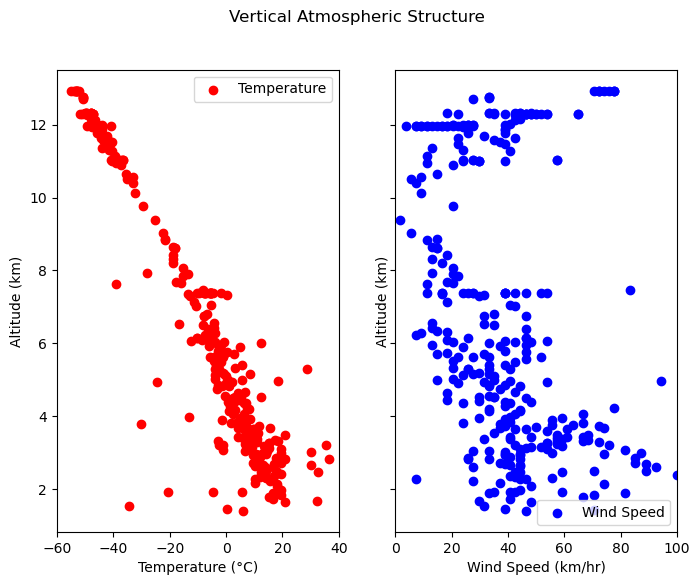
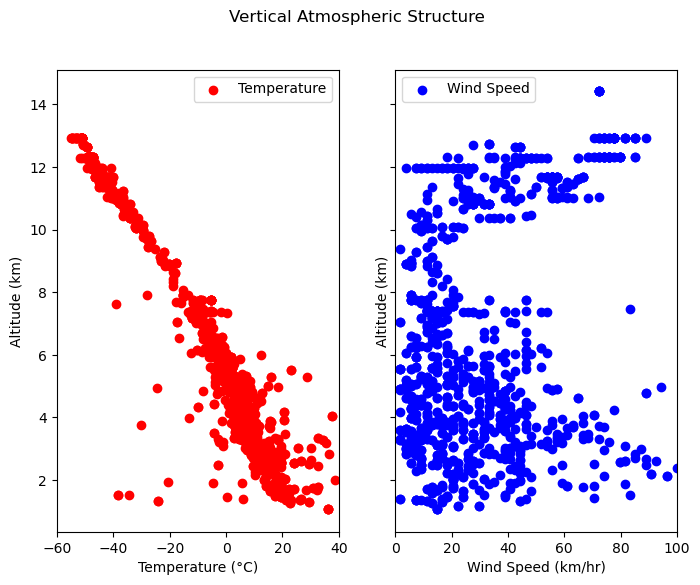
new json files and images

diff --git a/vertical_structure.py b/vertical_structure.py
@@ -10,13 +10,13 @@ import matplotlib.pyplot as plt
 import glob
 import json
 
-## Read the JSON data
+# Get a list of all the JSON files in the folder
 json_files = glob.glob('dump1090-fa/*.json')
 
-## Create an empty list to store the Pandas DataFrames
+# Create an empty list to store the Pandas DataFrames
 df_list = []
 
-## Iterate over the list of JSON files and read each file into a Pandas DataFrame
+# Iterate over the list of JSON files and read each file into a Pandas DataFrame
 for json_file in json_files:
     json_data = json.load(open(json_file))
 
@@ -49,14 +49,14 @@ for json_file in json_files:
 
         # Append the Pandas DataFrame to the empty list
         df_list.append(df)
-#%%
+
 ## Concatenate all the Pandas DataFrames in the list into a single Pandas DataFrame
 df = pd.concat(df_list)
 df["trk"] = (np.pi / 180) * df["track"]
 df["hdg"] = (np.pi / 180) * df["mag_heading"]
+print(df)
 ## Define a function to calculate wind speed and direction
-
-
+#%%
 
 def calculate_wind_speed_and_direction(df):
   """Calculates the wind speed and wind direction in meters per second and

diff --git a/trial.py b/trial.py
@@ -44,8 +44,7 @@ for json_file in json_files:
 
         # Create a Pandas DataFrame
         df = pd.DataFrame(flight_details)
-        df["trk"] = (np.pi / 180) * df["track"]
-        df["hdg"] = (np.pi / 180) * df["mag_heading"]
+        
 
         # Append the Pandas DataFrame to the empty list
         df_list.append(df)
